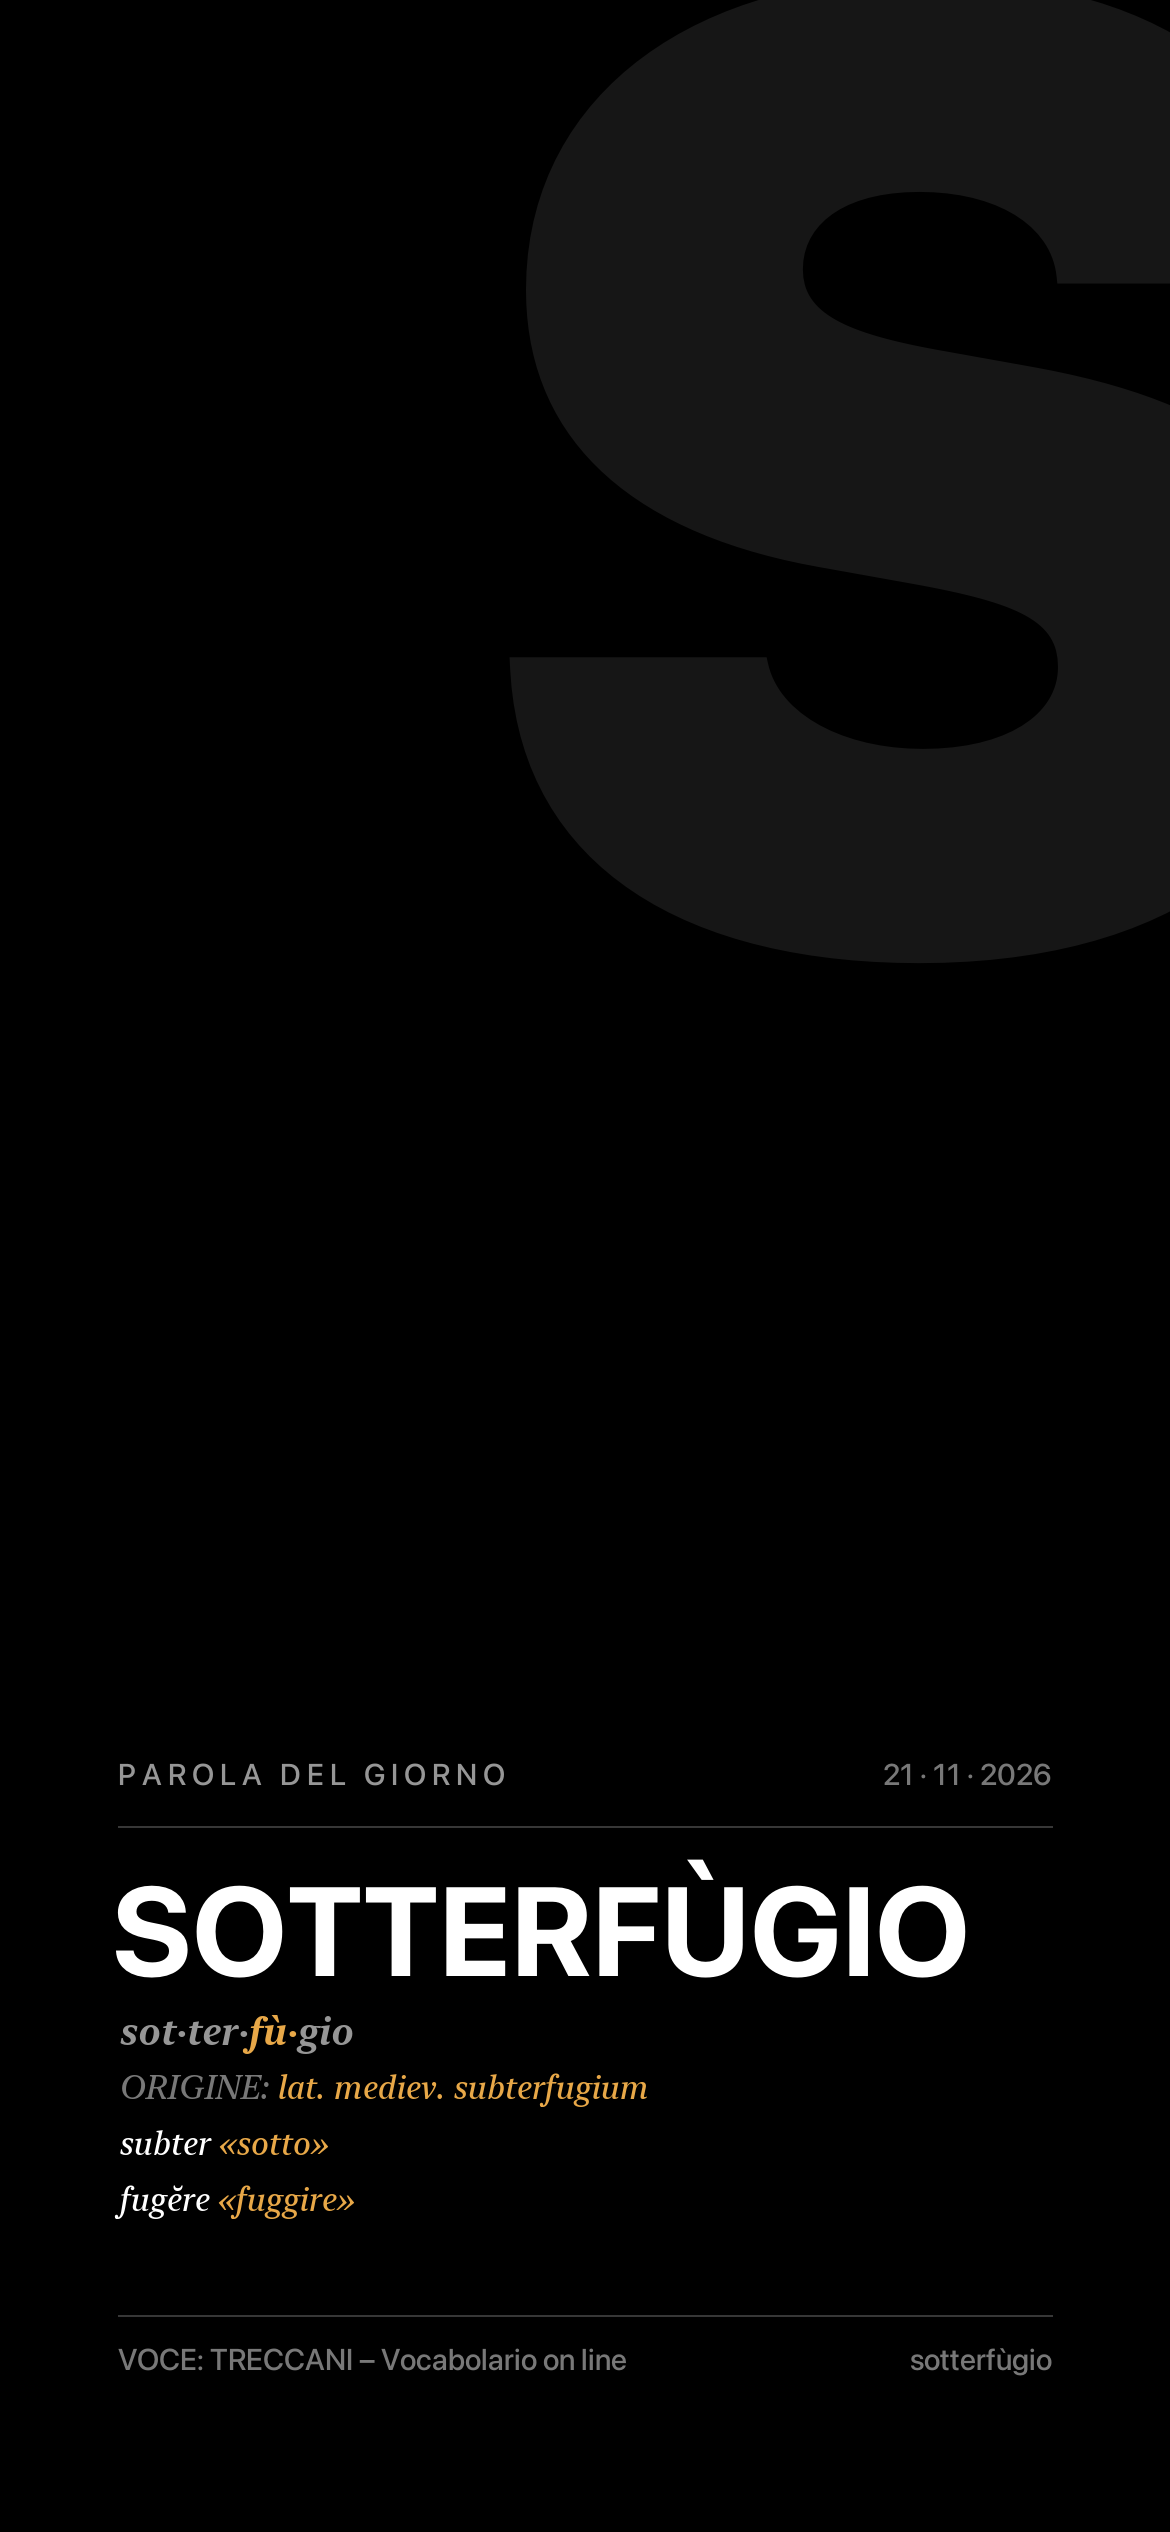
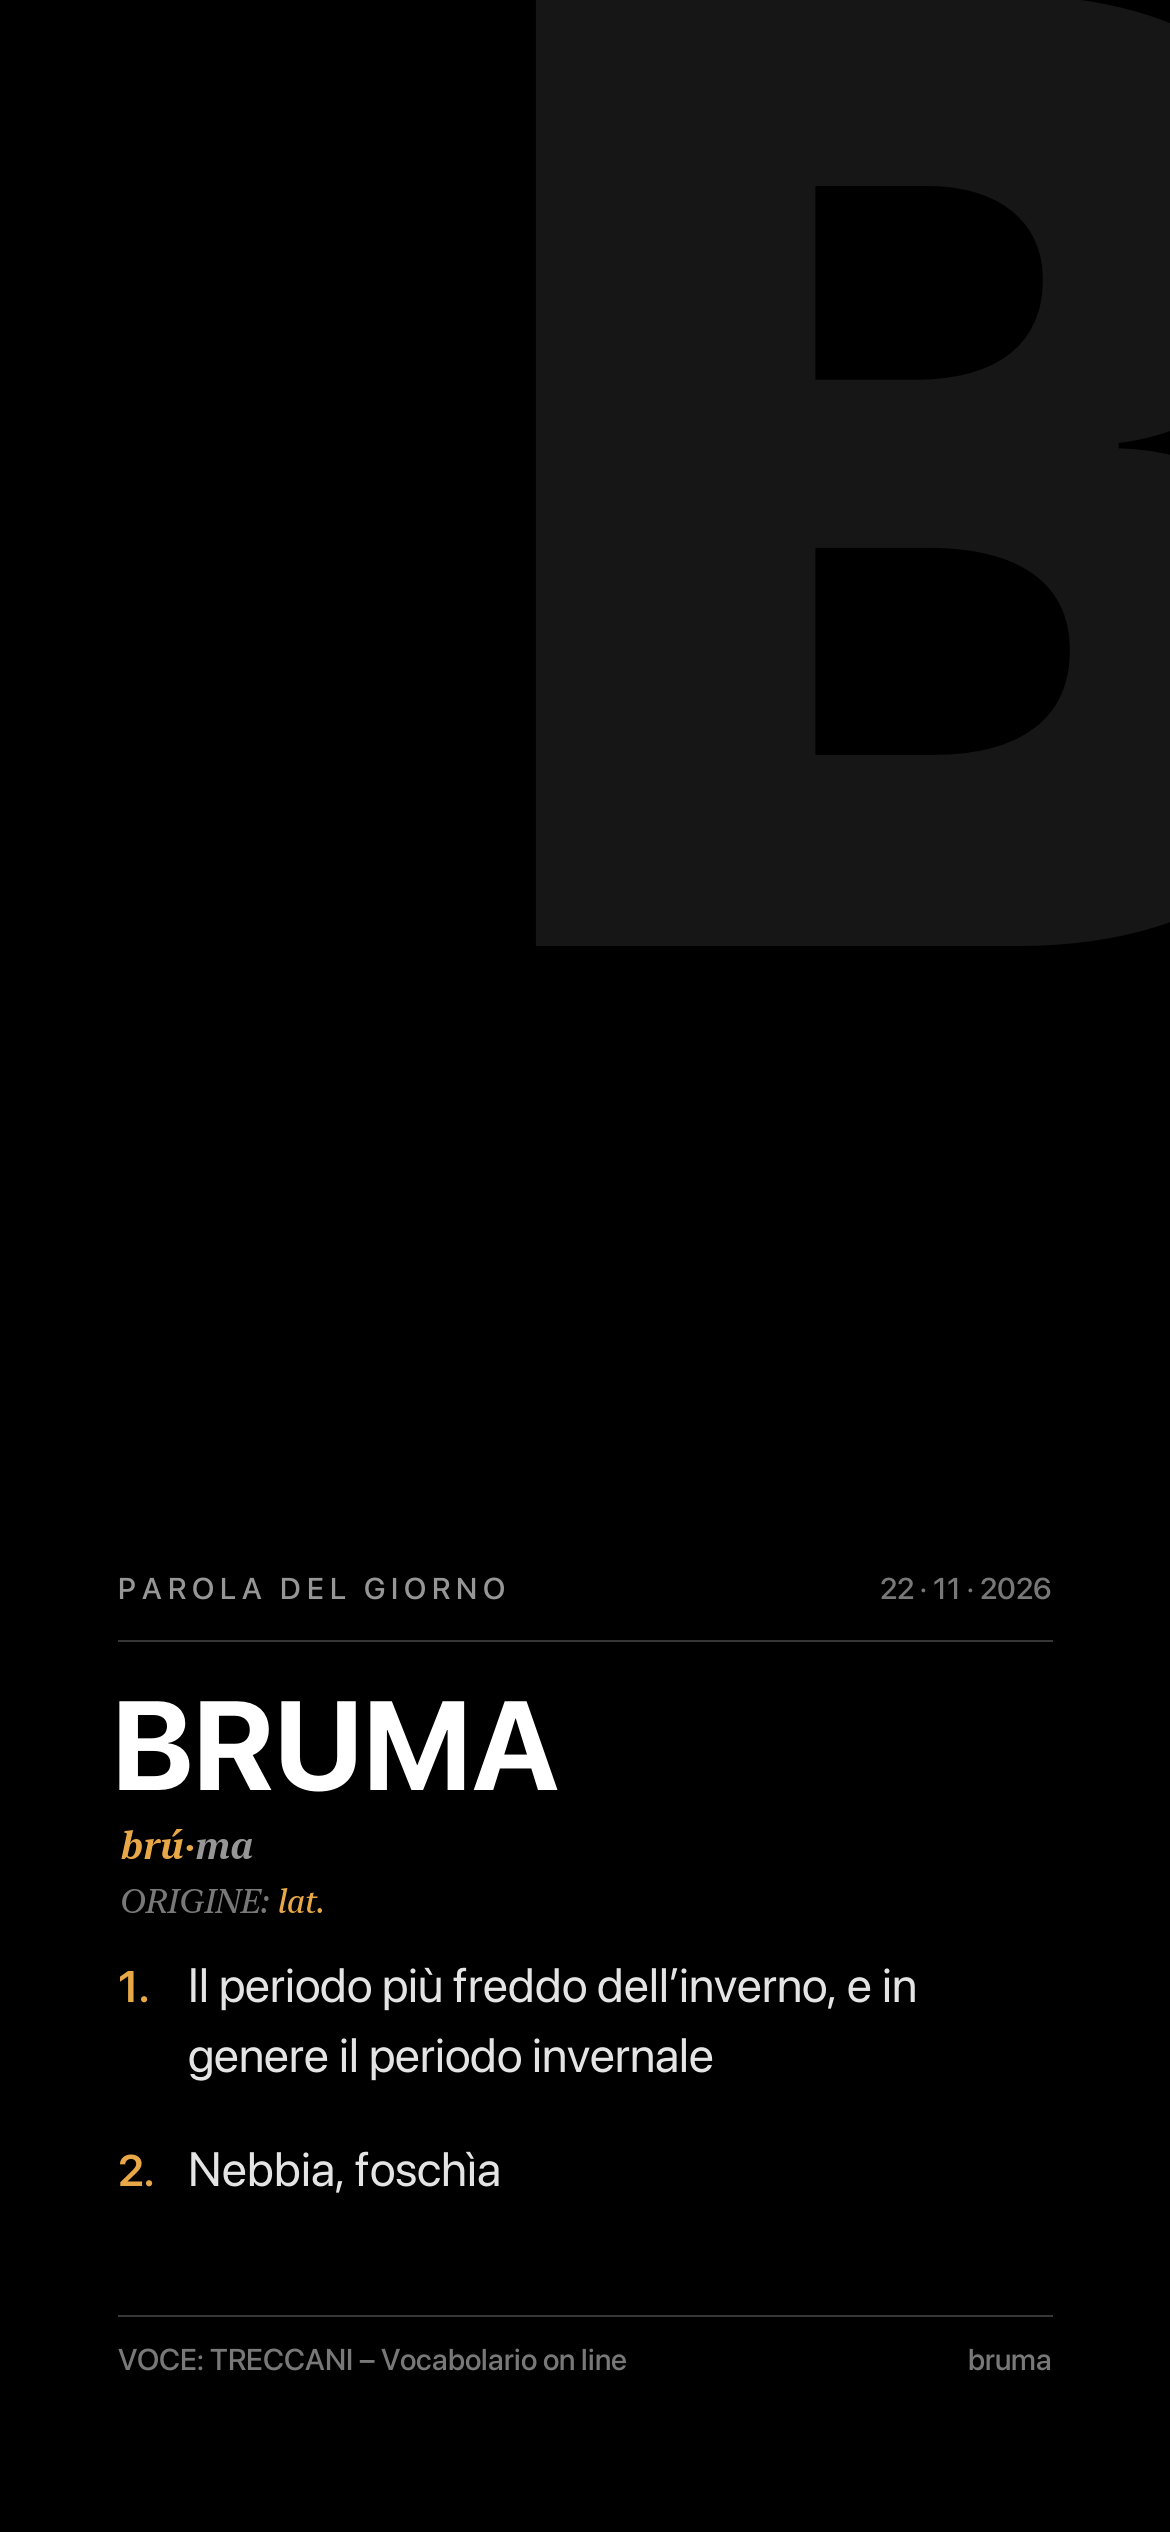
parola del giorno: bruma

diff --git a/site/index.html b/site/index.html
@@ -1,7 +1,7 @@
 <!doctype html>
 <html lang="it"><head><meta charset="utf-8">
 <meta name="viewport" content="width=device-width, initial-scale=1">
-<title>Parola del giorno – sotterfùgio</title>
+<title>Parola del giorno – bruma</title>
 <meta http-equiv="refresh" content="1800">
 <meta name="description" content="Sfondi di sblocco con la parola del giorno del Vocabolario Treccani, aggiornati ogni giorno.">
 <style>
@@ -13,10 +13,10 @@
  .src{margin-top:14px;font-size:13px}
 </style></head><body>
 <h1>PAROLA DEL GIORNO</h1>
-<img id="w" src="wallpaper.png" alt="Wallpaper parola del giorno sotterfùgio">
-<h1>SOTTERFÙGIO</h1>
+<img id="w" src="wallpaper.png" alt="Wallpaper parola del giorno bruma">
+<h1>BRUMA</h1>
 <p>Aggiornato ogni giorno con la parola del giorno del Vocabolario Treccani.<br>
-Ultimo aggiornamento: 21/11/2026</p>
-<p class="src"><a href="https://www.treccani.it/vocabolario/sotterfugio/">Voce Treccani →</a> &nbsp;·&nbsp; <a href="wallpaper.png">Scarica sfondo (1170×2532)</a></p>
+Ultimo aggiornamento: 22/11/2026</p>
+<p class="src"><a href="https://www.treccani.it/vocabolario/bruma1/">Voce Treccani →</a> &nbsp;·&nbsp; <a href="wallpaper.png">Scarica sfondo (1170×2532)</a></p>
 <script>document.getElementById('w').src='wallpaper.png?v='+Date.now();</script>
 </body></html>
